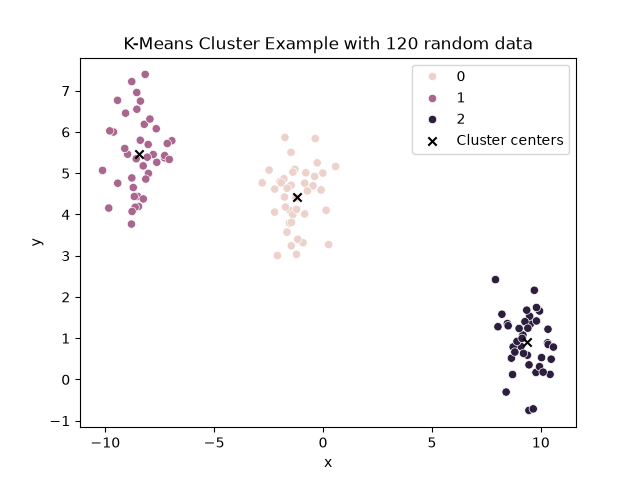
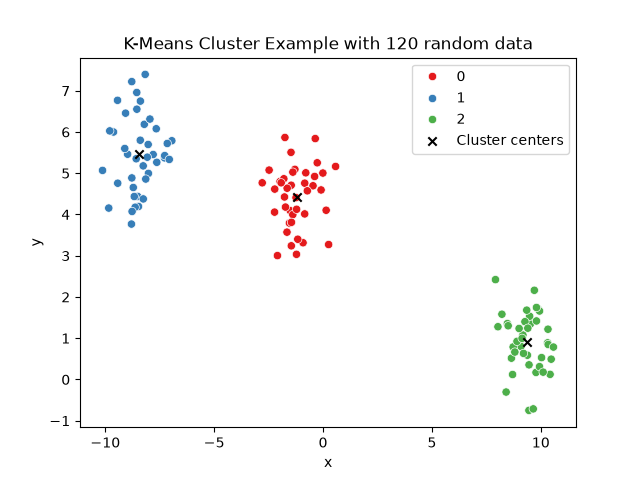
Updated according to AirHub feedback

diff --git a/assignments_02/warmup_02.py b/assignments_02/warmup_02.py
@@ -32,8 +32,10 @@ X = X.reshape(-1, 1)
 print(f'New shape of X: {X.shape}')
 
 # Scikit-learn require X to be 2D for 2 main reasons, one is to avoid ambiguity.
-# Is a 1D array x features with 1 entry or 1 feature with x entries?
+# Is a 1D array n features with 1 entry or 1 feature with n entries?
 # Also, it makes the API more robust, the code can always assume the correct shape of the dataset instead of guessing and changing.
+# At the same time, X being 2D also aligns with how scikit-learn handles regression, it is always trying to do matrix multiplication,
+# where the features are represented by X, the feature Matrix, to multiply with other vectors.
 
 # Q3
 
@@ -46,7 +48,7 @@ print(f'Cluster point counts [first, second, third]: {np.bincount(labels)}')
 df = pd.DataFrame(X_clusters, columns=['x', 'y'])
 df['labels'] = labels
 
-sns.scatterplot(df, x='x', y='y', hue='labels')
+sns.scatterplot(df, x='x', y='y', hue='labels', palette='Set1')
 plt.scatter(kmeans.cluster_centers_[:,0], kmeans.cluster_centers_[:,1], color='black', marker='x', label='Cluster centers')
 plt.xlabel('x')
 plt.ylabel('y')

diff --git a/assignments_02/project_02.py b/assignments_02/project_02.py
@@ -180,8 +180,7 @@ print()
 
 # Task 5: Build the Full Model
 
-feature_cols = ["failures", "Medu", "Fedu", "studytime", "higher", "schoolsup",
-                "internet", "sex", "freetime", "activities", "traveltime"]
+feature_cols = ['age', 'Medu', 'Fedu', 'traveltime', 'studytime', 'failures', 'absences', 'freetime', 'goout', 'Walc', 'schoolsup', 'internet', 'higher', 'activities', 'sex']
 X = df_filtered[feature_cols].values
 y = df_filtered["G3"].values
 
